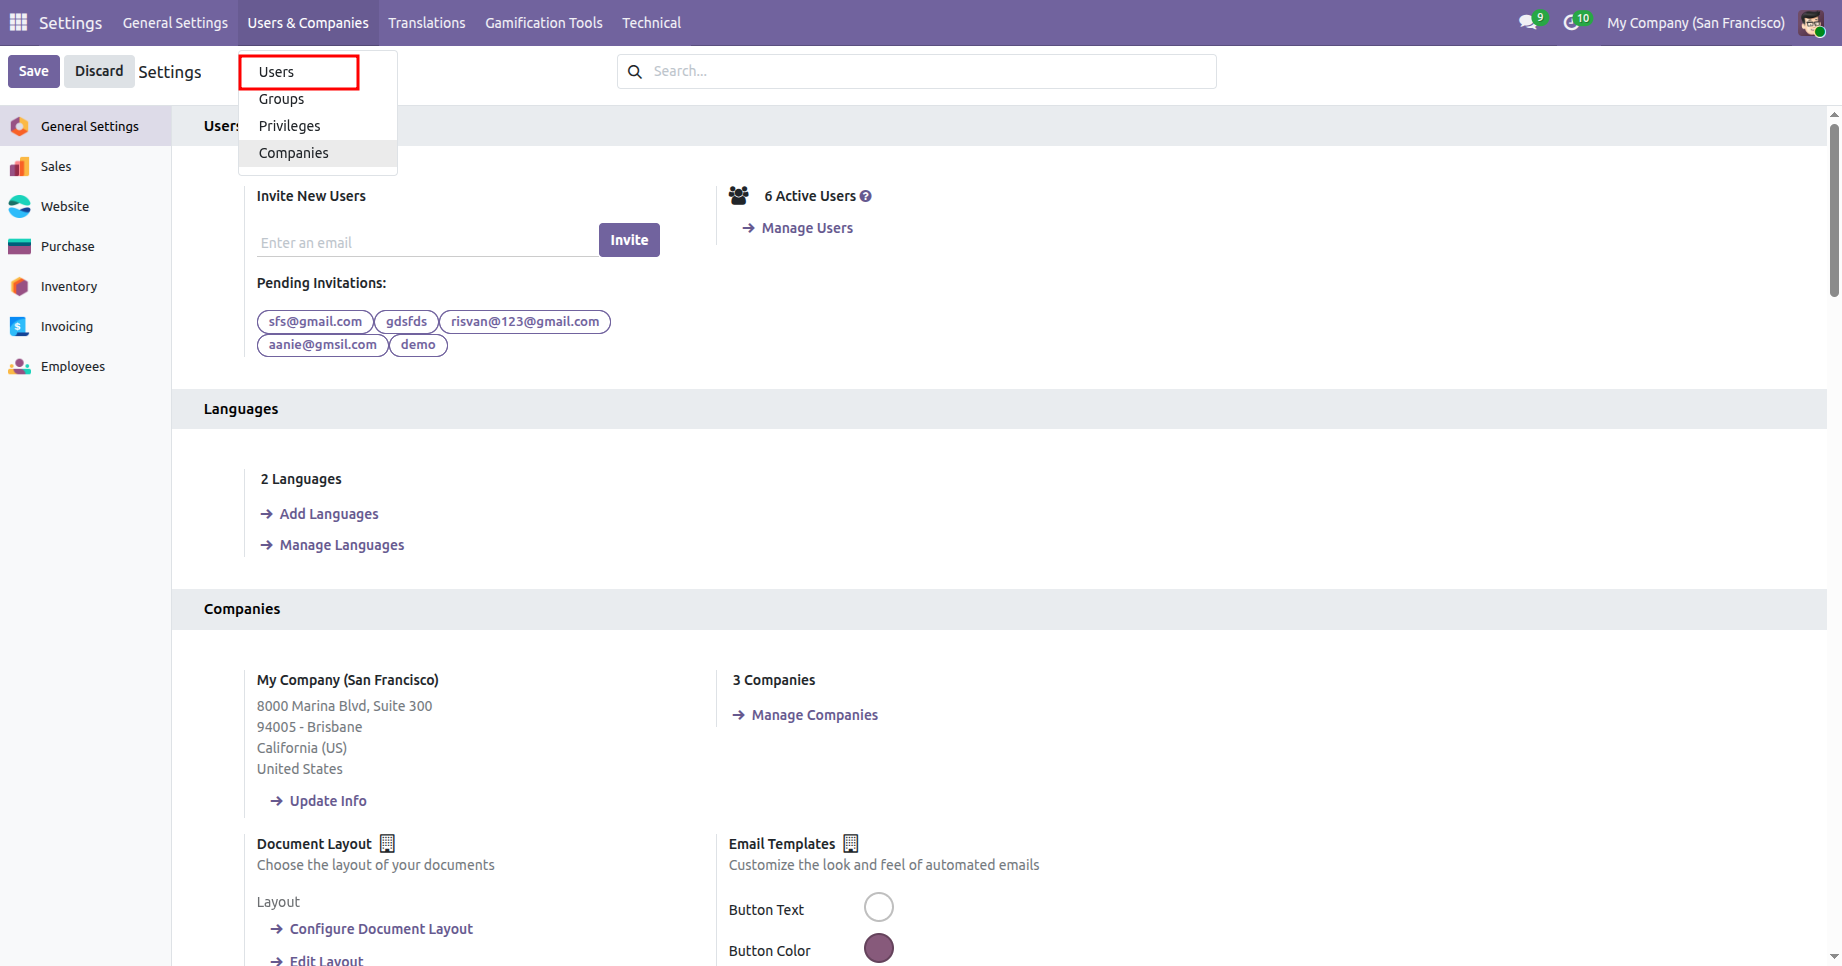
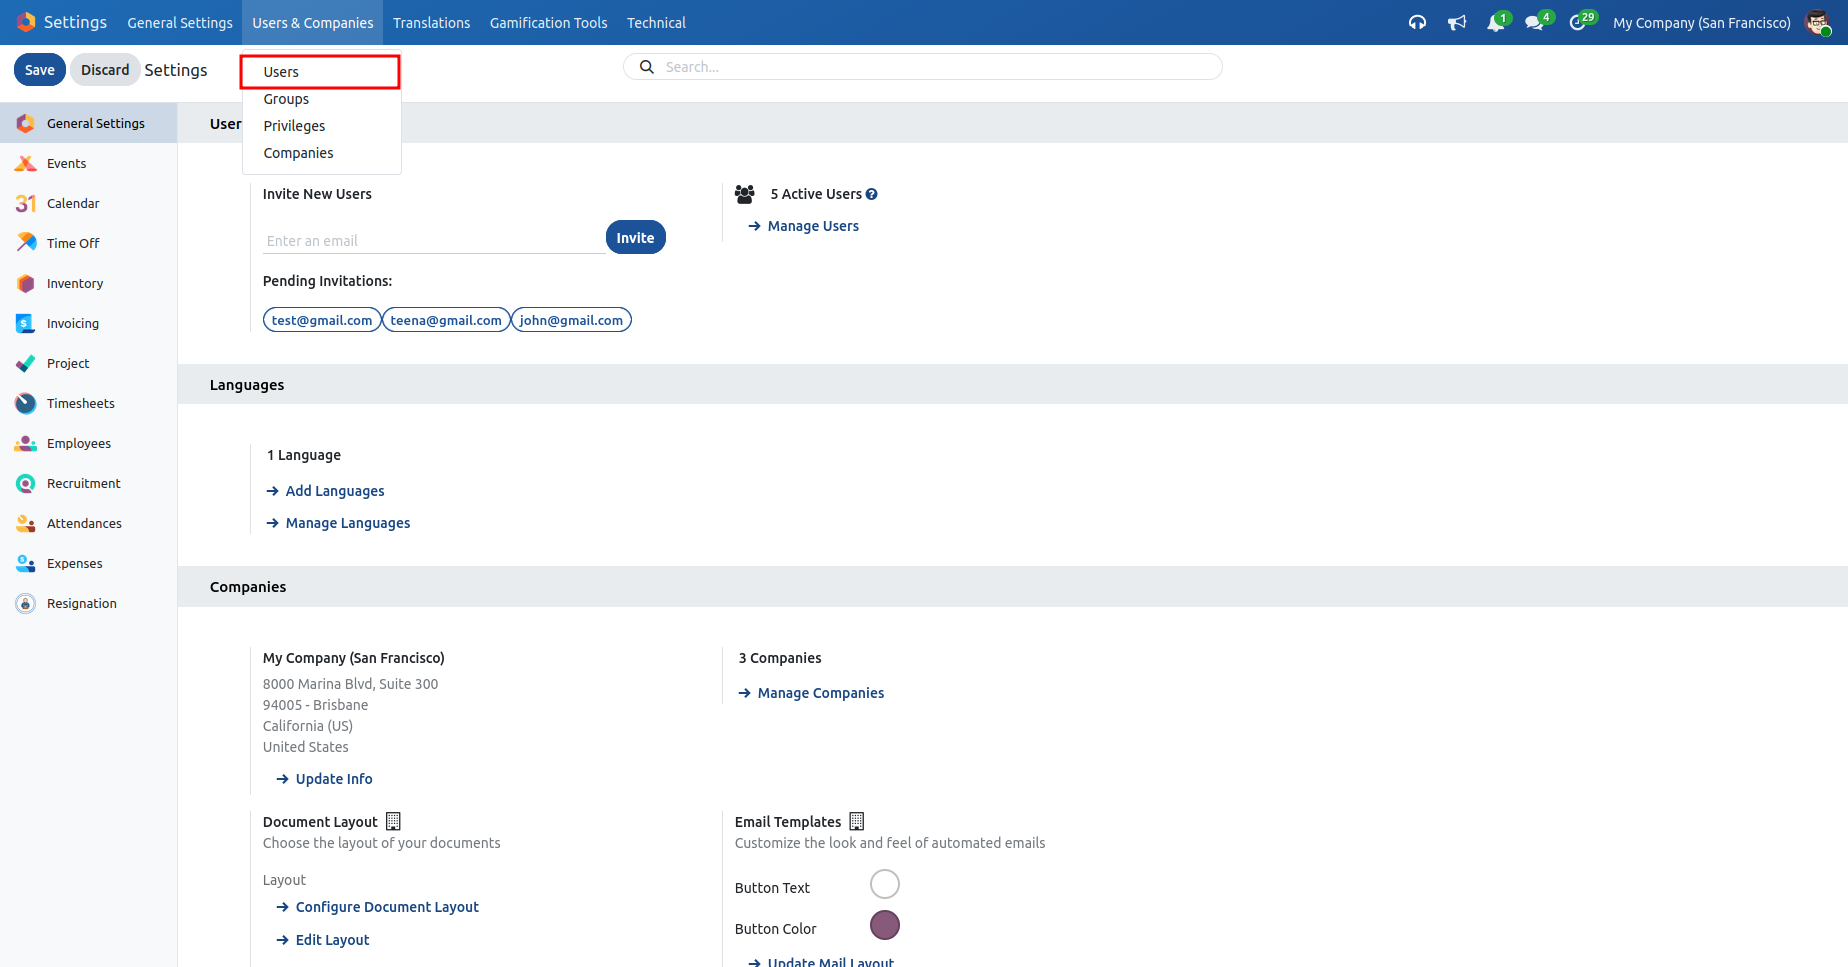
Aug 11: [UPDT] Module Updated 'oh_employee_creation_from_user'

diff --git a/oh_employee_creation_from_user/static/description/index.html b/oh_employee_creation_from_user/static/description/index.html
@@ -503,7 +503,7 @@
                               style="box-shadow: rgba(0, 0, 0, 0.05) 0px 6px 24px 0px; border: 1px solid #f8f8f8; border-bottom-right-radius:10px; border-bottom-left-radius:10px">
                               <p
                                 style="padding:0.75rem 1.25rem; font-size:16px; line-height:27px;  color:#888; font-weight:normal; border-bottom-right-radius:10px; border-bottom-left-radius:10px">
-                                  No, this module is primarily intended for Odoo 18 Community.
+                                  No, this module is primarily intended for Odoo 19 Community.
                               </p>
                             </div>
                           </div>
@@ -521,7 +521,7 @@
                       Latest Release 19.0.1.0.0
                     </h4>
                     <span style="font-size:14px; color:#7A7979; display:block; margin-bottom:20px;">
-                      17th September, 2025
+                      17th July, 2026
                     </span>
                   </div>
                   <div class="col-md-8">

diff --git a/oh_employee_creation_from_user/__init__.py b/oh_employee_creation_from_user/__init__.py
@@ -4,7 +4,7 @@
 #
 #    Cybrosys Technologies Pvt. Ltd.
 #
-#    Copyright (C) 2025-TODAY Cybrosys Technologies(<https://www.cybrosys.com>)
+#    Copyright (C) 2026-TODAY Cybrosys Technologies(<https://www.cybrosys.com>)
 #    Author: Cybrosys Techno Solutions(<https://www.cybrosys.com>)
 #
 #    You can modify it under the terms of the GNU LESSER

diff --git a/oh_employee_creation_from_user/__manifest__.py b/oh_employee_creation_from_user/__manifest__.py
@@ -4,7 +4,7 @@
 #
 #    Cybrosys Technologies Pvt. Ltd.
 #
-#    Copyright (C) 2025-TODAY Cybrosys Technologies(<https://www.cybrosys.com>)
+#    Copyright (C) 2026-TODAY Cybrosys Technologies(<https://www.cybrosys.com>)
 #    Author: Cybrosys Techno Solutions(<https://www.cybrosys.com>)
 #
 #    You can modify it under the terms of the GNU LESSER

diff --git a/oh_employee_creation_from_user/models/__init__.py b/oh_employee_creation_from_user/models/__init__.py
@@ -4,7 +4,7 @@
 #
 #    Cybrosys Technologies Pvt. Ltd.
 #
-#    Copyright (C) 2025-TODAY Cybrosys Technologies(<https://www.cybrosys.com>)
+#    Copyright (C) 2026-TODAY Cybrosys Technologies(<https://www.cybrosys.com>)
 #    Author: Cybrosys Techno Solutions(<https://www.cybrosys.com>)
 #
 #    You can modify it under the terms of the GNU LESSER

diff --git a/oh_employee_creation_from_user/models/res_users.py b/oh_employee_creation_from_user/models/res_users.py
@@ -4,7 +4,7 @@
 #
 #    Cybrosys Technologies Pvt. Ltd.
 #
-#    Copyright (C) 2025-TODAY Cybrosys Technologies(<https://www.cybrosys.com>)
+#    Copyright (C) 2026-TODAY Cybrosys Technologies(<https://www.cybrosys.com>)
 #    Author: Cybrosys Techno Solutions(<https://www.cybrosys.com>)
 #
 #    You can modify it under the terms of the GNU LESSER

diff --git a/oh_employee_creation_from_user/doc/RELEASE_NOTES.md b/oh_employee_creation_from_user/doc/RELEASE_NOTES.md
@@ -1,5 +1,5 @@
 ## Module <oh_employee_creation_from_user>
-#### 13.09.2025
+#### 17.07.2026
 #### Version 19.0.1.0.0
 ##### ADD
 - Initial commit for Open HRMS Employees From User
